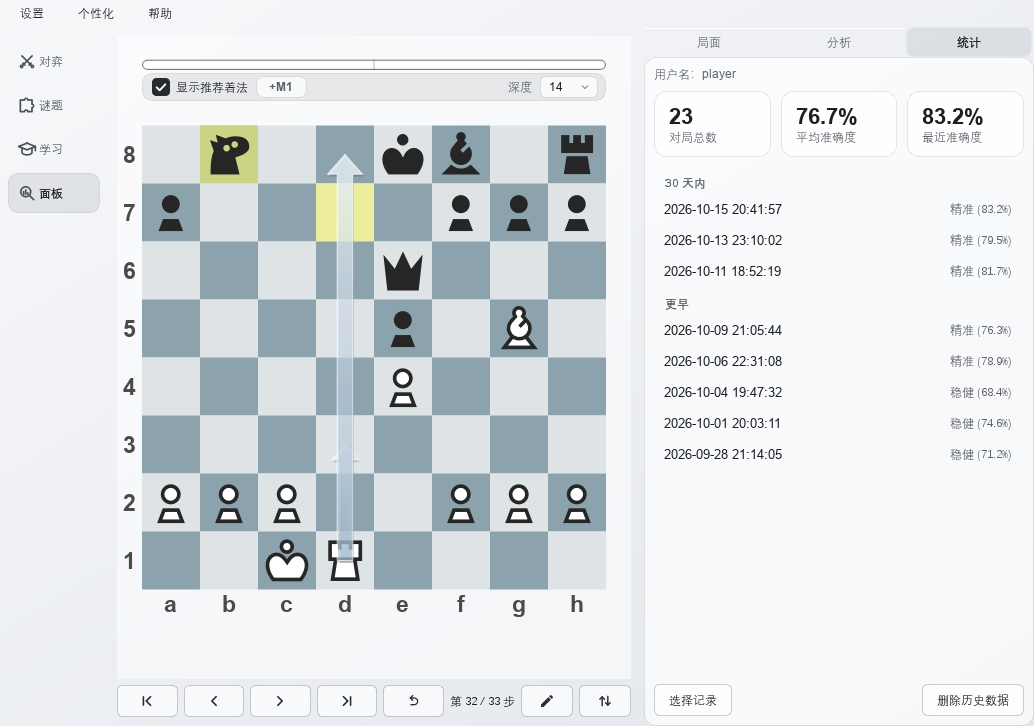
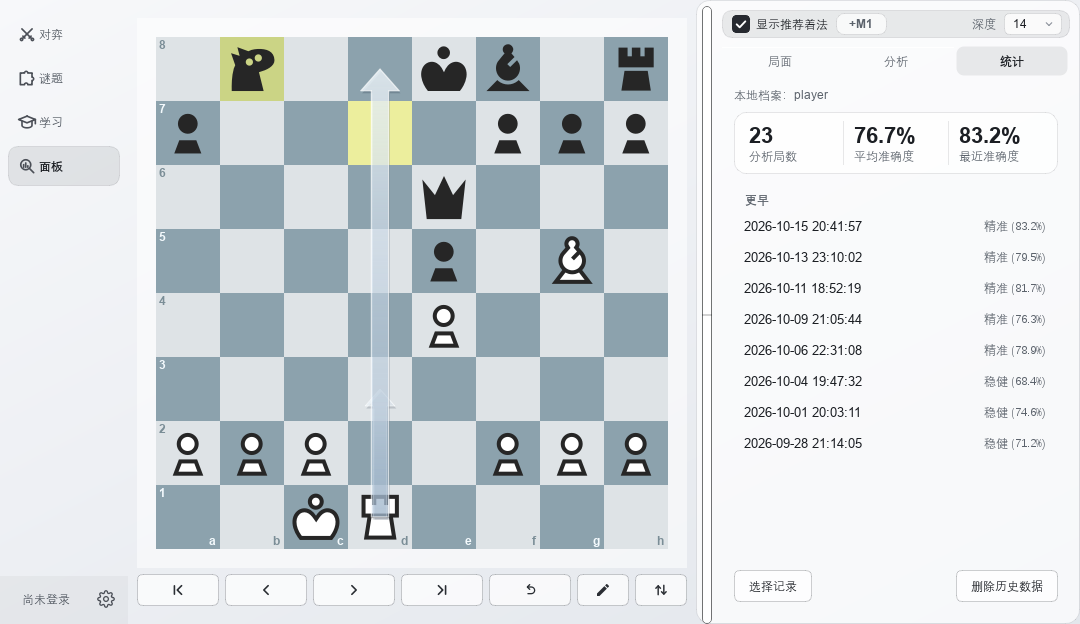
docs: refresh README, screenshots, and license

diff --git a/tools/make_screenshots.py b/tools/make_screenshots.py
@@ -2,10 +2,10 @@
 
 The script boots the actual ``MainWindow`` on Qt's offscreen platform, loads a
 real game and runs a real local Stockfish analysis so every score, arrow and
-label in the pictures is genuine, then fills the chat, statistics, play and
-puzzle pages with representative content and saves window grabs under
-``docs/readme/<language>/``. Every grab keeps the window at its default size
-and layout; nothing is resized or rescaled. One animated GIF walks the analysis
+label in the pictures is genuine, then fills the puzzles hub, puzzle records,
+chat and statistics pages with representative content and saves window grabs under
+``docs/readme/<language>/``. Every grab uses the same fixed capture size and
+layout; nothing is resized or rescaled. One animated GIF walks the analysis
 board through the decisive phase of the game, and the chat shot replays a
 genuine cloud-tier reply captured in ``tools/screenshot_chat.json``.
 
@@ -43,24 +43,23 @@ ROOT = Path(__file__).resolve().parents[1]
 if str(ROOT) not in sys.path:
     sys.path.insert(0, str(ROOT))
 
-import chess
 from PIL import Image
 from PySide6.QtWidgets import QApplication
 
 from checkpause.config import DEFAULT_ANALYSIS_DEPTH
 from checkpause.core.engine import StockfishAnalyzer
-from checkpause.core.openings import opening_san
 from checkpause.core.pgn import parse_single_game
 from checkpause.core.review import classify
 from checkpause.data.profile import create_profile, delete_profile, save_profile
-from checkpause.data.puzzles import BUILTIN_ID
+from checkpause.data.puzzles import PuzzleCollection, builtin_collection
 from checkpause.data.settings import MODE_LOCAL, set_ai_mode
 from checkpause.gui.main_window import MainWindow
 from checkpause.i18n import t
 
-# Every grab is saved exactly as the window renders it at the application's own
-# default size (1034x726 logical, set in MainWindow): no resize, no rescale, so
-# the pictures match what a user sees.
+# Grab at the application's default window size so the README screenshots match
+# what a new user sees on first launch.
+CAPTURE_WIDTH = 1080
+CAPTURE_HEIGHT = 624
 LANGUAGES = ("en-US", "zh-CN")
 FOLDERS = {"en-US": "en", "zh-CN": "zh"}
 OUTPUT_ROOT = ROOT / "docs" / "readme"
@@ -133,6 +132,7 @@ def _boot_window(language, with_profile):
         # account opens the welcome screen; the shots want the local tier.
         set_ai_mode(MODE_LOCAL)
     window = MainWindow()
+    window.resize(CAPTURE_WIDTH, CAPTURE_HEIGHT)
     window._update_timer.stop()
     window.show()
     _pump(150)
@@ -224,65 +224,52 @@ def _capture_stats(window, language):
     _grab(window, _folder(language) / "stats.png")
 
 
-def _capture_play(window):
-    page = window.play_page
-    time_index = page._time_combo.findData("rapid_10_0")
-    if time_index >= 0:
-        page._time_combo.setCurrentIndex(time_index)
-    for index, opening in enumerate(page._openings):
-        if opening_san(opening).startswith("1. e4 e5 2. Nf3 Nc6 3. Bc4"):
-            page._start_mode = "opening"
-            page._opening_index = index
-            page._sync_start_mode()
-            page._prepare_game()
-            break
-
-    page._started = True
-    page._session.clock_started = True
-    page._session.clock_remaining = {chess.WHITE: 512.0, chess.BLACK: 536.0}
-    page._update_panel_state()
-    page._sync_clock_timer()
-    page._update_clock_labels()
-
-    window._module = "play"
-    window._show_module()
-    _grab(window, _folder(window._language) / "play.png")
-    page._clock_timer.stop()
-
-
-def _puzzle_index():
-    """Pick one built-in puzzle that shows a readable middlegame position."""
-    sample = ROOT / "assets" / "puzzles" / "lichess_sample.jsonl"
-    fallback = None
-    for index, line in enumerate(sample.read_text(encoding="utf-8").splitlines()):
-        try:
-            puzzle = json.loads(line)
-        except ValueError:
-            continue
-        themes = puzzle.get("themes") or []
-        rating = puzzle.get("rating") or 0
-        if "middlegame" not in themes or "mateIn2" not in themes:
-            continue
-        if not 1000 <= rating <= 1400:
-            continue
-        if len(puzzle.get("moves") or []) < 4:
-            continue
-        if puzzle.get("id") == "005nD":
-            return index
-        if fallback is None:
-            fallback = index
-    return fallback
-
-
 def _capture_puzzle(window, language):
     page = window.puzzle_page
-    page.refresh_collections(select_id=BUILTIN_ID)
-    index = _puzzle_index()
-    if index is not None:
-        page._start_collection(BUILTIN_ID, index)
     window._module = "puzzle"
     window._show_module()
-    _grab(window, _folder(language) / "puzzle.png")
+    page.show_hub()
+    builtin = builtin_collection()
+    if builtin is not None:
+        page._hub.set_collections([PuzzleCollection(builtin)], window._language)
+    page._hub.set_online(True, 1500)
+    path = _folder(language) / "puzzle.png"
+    _grab(window, path)
+    with Image.open(path) as image:
+        image.crop((0, 0, image.width, 340)).save(path)
+
+
+def _capture_puzzle_records(window, language):
+    page = window.puzzle_page
+    summary = {
+        "rating": 1500,
+        "rd": 80,
+        "rating_attempts": 42,
+        "attempts": 128,
+        "active_days": 12,
+        "mistake_total": 40,
+        "mistake_solved": 28,
+        "retryable": 12,
+        "theme_radar": [
+            {"theme": "mate", "performance": 78, "attempts": 24, "accuracy": 83},
+            {"theme": "fork", "performance": 66, "attempts": 20, "accuracy": 75},
+            {"theme": "pin", "performance": 58, "attempts": 18, "accuracy": 72},
+            {"theme": "middlegame", "performance": 54, "attempts": 16, "accuracy": 69},
+            {"theme": "endgame", "performance": 49, "attempts": 14, "accuracy": 64},
+            {"theme": "opening", "performance": 44, "attempts": 12, "accuracy": 58},
+        ],
+    }
+    window._module = "puzzle"
+    window._show_module()
+    page._profile.set_range(30)
+    page._profile.refresh(summary, window._language)
+    page._stack.setCurrentWidget(page._profile)
+    window.resize(CAPTURE_WIDTH, 900)
+    path = _folder(language) / "puzzle_records.png"
+    _grab(window, path)
+    with Image.open(path) as image:
+        image.crop((0, 0, image.width, 780)).save(path)
+    window.resize(CAPTURE_WIDTH, CAPTURE_HEIGHT)
 
 
 def _save_walkthrough(window, language, records):
@@ -333,8 +320,8 @@ def _capture_language(language):
     _goto_ply(window, records, HERO_PLY)
     _capture_analysis(window, language)
     _capture_stats(window, language)
-    _capture_play(window)
     _capture_puzzle(window, language)
+    _capture_puzzle_records(window, language)
 
     window._module = "analysis"
     window._show_module()

diff --git a/checkpause/gui/pages/puzzle_page.py b/checkpause/gui/pages/puzzle_page.py
@@ -979,6 +979,7 @@ class _HubView(QWidget):
             item = self._collection_grid.takeAt(0)
             widget = item.widget()
             if widget is not None:
+                widget.hide()
                 widget.deleteLater()
         self._cards = []
         visible = list(collections)

diff --git a/README.md b/README.md
@@ -1,13 +1,11 @@
 # ♟ CheckPause
 
-A chess analysis tool that combines game-tree search with natural language generation to help players understand their own decision-making biases.
-
[1 lines of base64/hex data omitted]
 [![license](https://img.shields.io/badge/license-Proprietary-lightgrey?style=for-the-badge)](LICENSE)
 [![Chinese](https://img.shields.io/badge/%E4%B8%AD%E6%96%87-brown?style=for-the-badge)](README.zh-CN.md)
 [![English](https://img.shields.io/badge/English-blue?style=for-the-badge)](README.md)
 
-CheckPause evaluates every move with a local Stockfish engine, then lets any OpenAI-compatible model explain the engine data in plain language, alongside a clickable move list, a custom-drawn board, performance ratings, and a personal growth profile.
+CheckPause uses Stockfish for analysis, then lets any OpenAI-compatible model translate the engine data into natural-language explanations. It also includes puzzles, lessons, and play.
 
 ![CheckPause reviewing a game: engine arrows on the board, move labels in the list, and the accuracy summary](docs/readme/en/analysis.png)
 
@@ -15,54 +13,60 @@ CheckPause evaluates every move with a local Stockfish engine, then lets any Ope
 
 ## ✨ Features
 
-### ♟ Review every move like a report card
+### ♟ Completely free analysis
 
 ![Stepping through the decisive phase of a game, with engine arrows and move labels](docs/readme/en/walkthrough.gif)
 
 - Stockfish scores every ply in the background, with a progress bar and a stop button; book moves are recognised from the bundled Polyglot opening book and skip the engine entirely.
-- Every move gets a label the way a review report does it — Brilliant, Great, Best, Excellent, Good, Book, Forced, Only move, Inaccuracy, Mistake, Miss, Blunder — and the game an accuracy rating on a five-tier scale (Optimal / Precise / Competent / Steady / Volatile).
-- Click any move to jump to that position; the board draws the engine's best-move arrows, shows a live evaluation bar, and flips with one click.
+- Judge every move — Brilliant, Great, Best, Excellent, Good, Book, Forced, Only move, Inaccuracy, Mistake, Miss, Blunder — then give the game an accuracy rating.
+- Click any move to jump to that position, or use the mouse wheel to browse the game.
 
 ### 💬 Ask the engine data in plain language
 
 ![Asking the coach why a knight sacrifice still favours White](docs/readme/en/chat.png)
 
-- The engine data (PGN plus per-move scores and best moves) is passed to the model as context, and answers stream in token by token.
-- Follow-up questions work like a coach conversation: "Wasn't 10.Nxb5 just losing a knight?" gets an answer grounded in the numbers on screen.
-- Works with DeepSeek, OpenAI, OpenRouter, or a local model — anything that speaks the OpenAI API.
+- Engine data is passed to the LLM as context.
+- Ask about any move: "Wasn't 10.Nxb5 just losing a knight?" — answers stay grounded in the data.
+- Works with OpenAI, OpenRouter, and local models — anything that speaks the OpenAI API.
 
-### 🎮 Play the computer
+### 🧩 Train with puzzles
 
-![Playing the engine with both clocks running and one-click send to analysis](docs/readme/en/play.png)
+![Online puzzles: rating, daily puzzle, and challenge modes](docs/readme/en/puzzle.png)
+
+- With a cloud account, use online puzzles; offline, use the curated sample or import your own Lichess CSV or FEN-based PGN collections.
+- Correct/wrong feedback with automatic opponent replies, hint arrows and retry; rating and themes shown per puzzle.
+- A cloud account syncs your puzzle rating and mistakes.
+- The Records page shows your online rating, practice history, and theme performance.
+
+![Puzzle records: online rating, practice stats, and theme performance](docs/readme/en/puzzle_records.png)
+
+### 🎮 Play
+
+![Game setup: choose side, clock, level, and starting position](docs/readme/en/play.png)
 
 - A 100–3000 rating slider; 1320 and above is calibrated by Stockfish's own Elo limiter, and below that Skill Level and a node budget approximate it.
 - Common time controls (1+0 through 30+0, with increments or unlimited), White or Black, and selectable openings and endgames.
 - Click-to-move, promotion picking, undo, resign — and a one-click send to analysis when the game ends. The setup pickers lock once a game is under way and unlock on New game.
 
-### 🧩 Train with puzzles
+### 🎓 Learn the basics
 
-![Solving a Lichess puzzle with rating and theme info](docs/readme/en/puzzle.png)
+- Short interactive lessons on the board, grouped by topic; each step explains the idea, then asks the user to play the correct move.
+- Lesson progress is saved locally, so you can continue next time.
 
-- A curated Lichess sample ships with the app, and you can import your own open collections (Lichess CSV, or FEN-based PGN); large collections are read lazily.
-- Correct/wrong feedback with automatic opponent replies, hint arrows and retry; rating and themes shown per puzzle.
-- A Favorites collection automatically gathers the puzzles you star or miss.
-
-### 📈 Watch your numbers
+### 📈 Records
 
 ![Accuracy history on the Statistics tab](docs/readme/en/stats.png)
 
 - Total games, average accuracy, and the latest game's accuracy at a glance.
 - A per-game history table with the date, the rating tier, and the percentage.
 
-### 🎨 Make it yours
+### ☁ Optional cloud account
 
-- 10 Lichess open-source piece sets, 6 board themes, and light/dark modes, applied instantly and saved.
-- Move sounds for quiet moves, captures, checks, castling and promotions, in a Default set or Off; every clip is synthesised by the project, with no third-party assets.
-- A Chinese or English interface, switchable at any time; analysis depth (12–18) and evaluation depth (10–22) adjustable under Personalization.
+- Sign in to sync puzzle rating and mistakes and to use the hosted AI tier.
 
 ### 🔒 Private by design
 
-- Your games and API keys stay on your machine; analysis never depends on the cloud.
+- Local engine analysis and your API key stay on your machine. Cloud features (hosted AI, online puzzles, account sync) send only the data needed for those features to checkpause.com.
 
 ---
 
@@ -75,8 +79,8 @@ Requirements: Windows 10/11 (x64) or macOS 11+ (Apple Silicon or Intel). No Pyth
 1. Get `CheckPause_Setup_2.2.1.zip` from the Download section at the end of this file, then extract it to get `CheckPause_Setup_2.2.1.exe`.
 2. Run the installer and follow the prompts — no administrator rights needed, and a desktop shortcut is optional.
 3. Launch CheckPause from the desktop or Start Menu; the first launch lets you sign in to a cloud account, create one, or continue offline.
-4. Open Settings → API settings... and fill in the API key, base URL and model name for an OpenAI-compatible endpoint (for example DeepSeek).
-5. Paste or open a PGN on the Import tab, click Analyze, then ask questions on the Analysis tab.
+4. Open the gear menu in the side rail → API settings... and fill in the API key, base URL and model name for an OpenAI-compatible endpoint (for example DeepSeek).
+5. Open or paste a PGN in the Panel module, click Analyze, then ask questions on the Analysis tab.
 
 > Analysis and board features work without an API key; only AI chat needs one.
 
@@ -93,16 +97,16 @@ Requirements: Windows 10/11 (x64) or macOS 11+ (Apple Silicon or Intel). No Pyth
 
 ## ⚙ Configuration and data
 
-- Settings → API settings... is the bring-your-own-key path: enter the API key, base URL and model name for any OpenAI-compatible service. Signing in to a cloud account switches the app to the hosted tier instead.
-- User data lives in `%APPDATA%\CheckPause\` on Windows and `~/Library/Application Support/CheckPause/` on macOS: `profile.json` (username, language, theme, appearance, history) and `settings.json` (API config); legacy profiles migrate automatically.
+- The side-rail gear menu → API settings... is the bring-your-own-key path: enter the API key, base URL and model name for any OpenAI-compatible service. Signing in to a cloud account switches the app to the hosted tier instead.
+- User data lives in `%APPDATA%\CheckPause\` on Windows and `~/Library/Application Support/CheckPause/` on macOS: `profile.json` (username, language, theme, appearance, history), `settings.json` (non-secret settings), and `secrets.dat` (API key and account token); legacy profiles migrate automatically.
 
 ---
 
 ## ❓ FAQ
 
-- **Do I need an account?** No. The board, engine analysis, play and puzzles all work in offline mode; a cloud account only unlocks the hosted AI tier.
-- **Do I need an API key?** Only for AI chat. Enter your own key under Settings → API settings..., or sign in to use the hosted tier.
-- **Is my game uploaded?** Local engine analysis never leaves your machine. When you ask the AI questions, the game and engine data are sent to the model you configured — the same is true on the hosted tier.
+- **Do I need an account?** No. Board analysis, play, and local puzzles work offline without an account; a cloud account adds hosted AI, online puzzles, and rating/mistake sync.
+- **Do I need an API key?** Only for AI chat. Enter your own key under the side-rail gear menu → API settings..., or sign in to use the hosted tier.
+- **Is my game uploaded?** Local engine analysis never leaves your machine. When you ask the AI questions, the game and engine data are sent to the model you configured; cloud features send only what they need to checkpause.com.
 - **Why does Windows SmartScreen / macOS warn?** The builds are unsigned: choose More info → Run anyway on Windows, or right-click the icon → Open on macOS.
 
 ---
@@ -110,9 +114,10 @@ Requirements: Windows 10/11 (x64) or macOS 11+ (Apple Silicon or Intel). No Pyth
 ## 🙏 Credits
 
 - Pieces come from Lichess open-source piece sets (cburnett, merida, chessnut, fantasy, spatial, celtic, kiwen-suwi, rhosgfx, totoy, mpchess), each owned by its author under GPLv2+ / Apache-2.0 / MIT / CC BY / CC0 licenses.
-- Engine: [Stockfish](https://stockfishchess.org/) (GPLv3); the opening book is compiled from public opening lines.
+- Engine: [Stockfish](https://stockfishchess.org/) (GPLv3); the opening book is compiled from public opening lines. Puzzle data comes from the [Lichess puzzle database](https://database.lichess.org/) (CC0).
+- Python libraries: python-chess (GPL-3.0+), openai (Apache-2.0), PySide6 (LGPL-3.0), numpy (BSD-3-Clause and bundled licenses), onnxruntime (MIT), cryptography (Apache-2.0 or BSD-3-Clause), python-dotenv (BSD-3-Clause). See [LICENSE](LICENSE) for the full third-party list.
 - The installer is built with [Inno Setup](https://jrsoftware.org/isinfo.php) and uses its official Simplified Chinese language file (`installer/languages/ChineseSimplified.isl`, maintained by Zhenghan Yang).
-- License: CheckPause is proprietary software — Copyright (C) 2026 CometZZZ, all rights reserved. See [LICENSE](LICENSE). Bundled components keep their own terms: Stockfish is GPLv3 (source available at https://stockfishchess.org/download/), and the piece sets keep the licenses listed above.
+- License: CheckPause is proprietary software — Copyright (C) 2026 CometZZZ, all rights reserved. See [LICENSE](LICENSE). Bundled components keep their own terms, including Stockfish (GPLv3, separate process), python-chess (GPL-3.0+), and the piece sets listed above.
 
 ---
 
